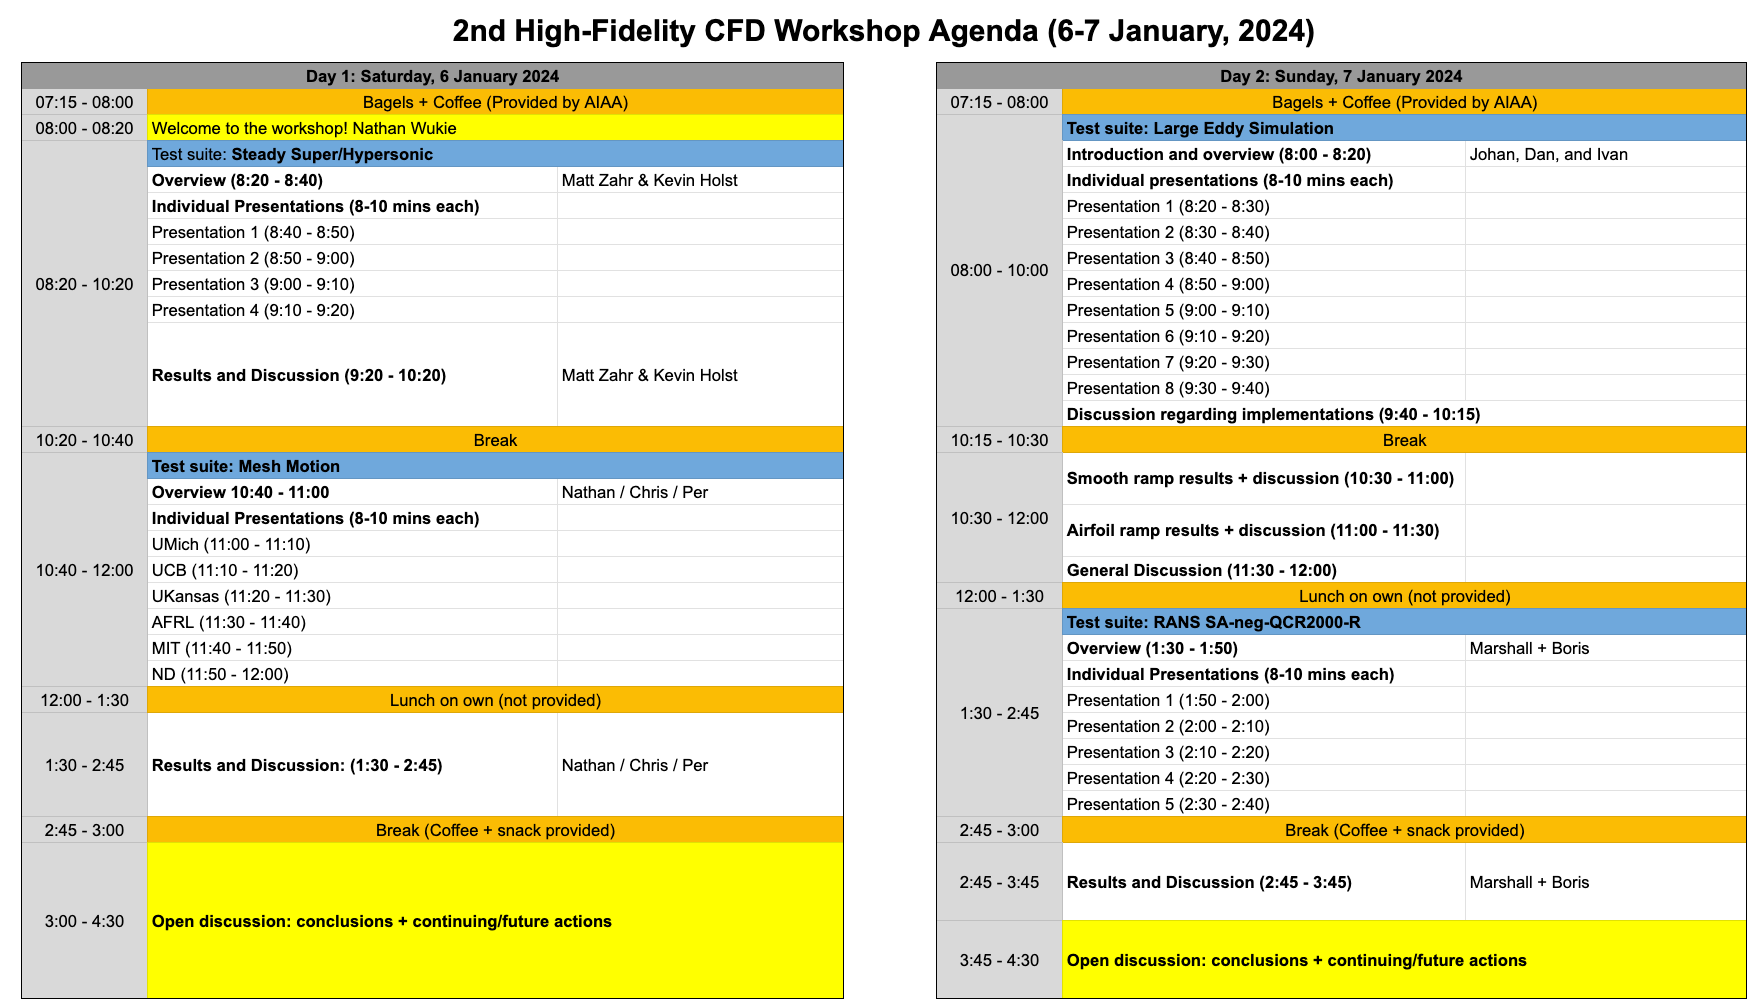
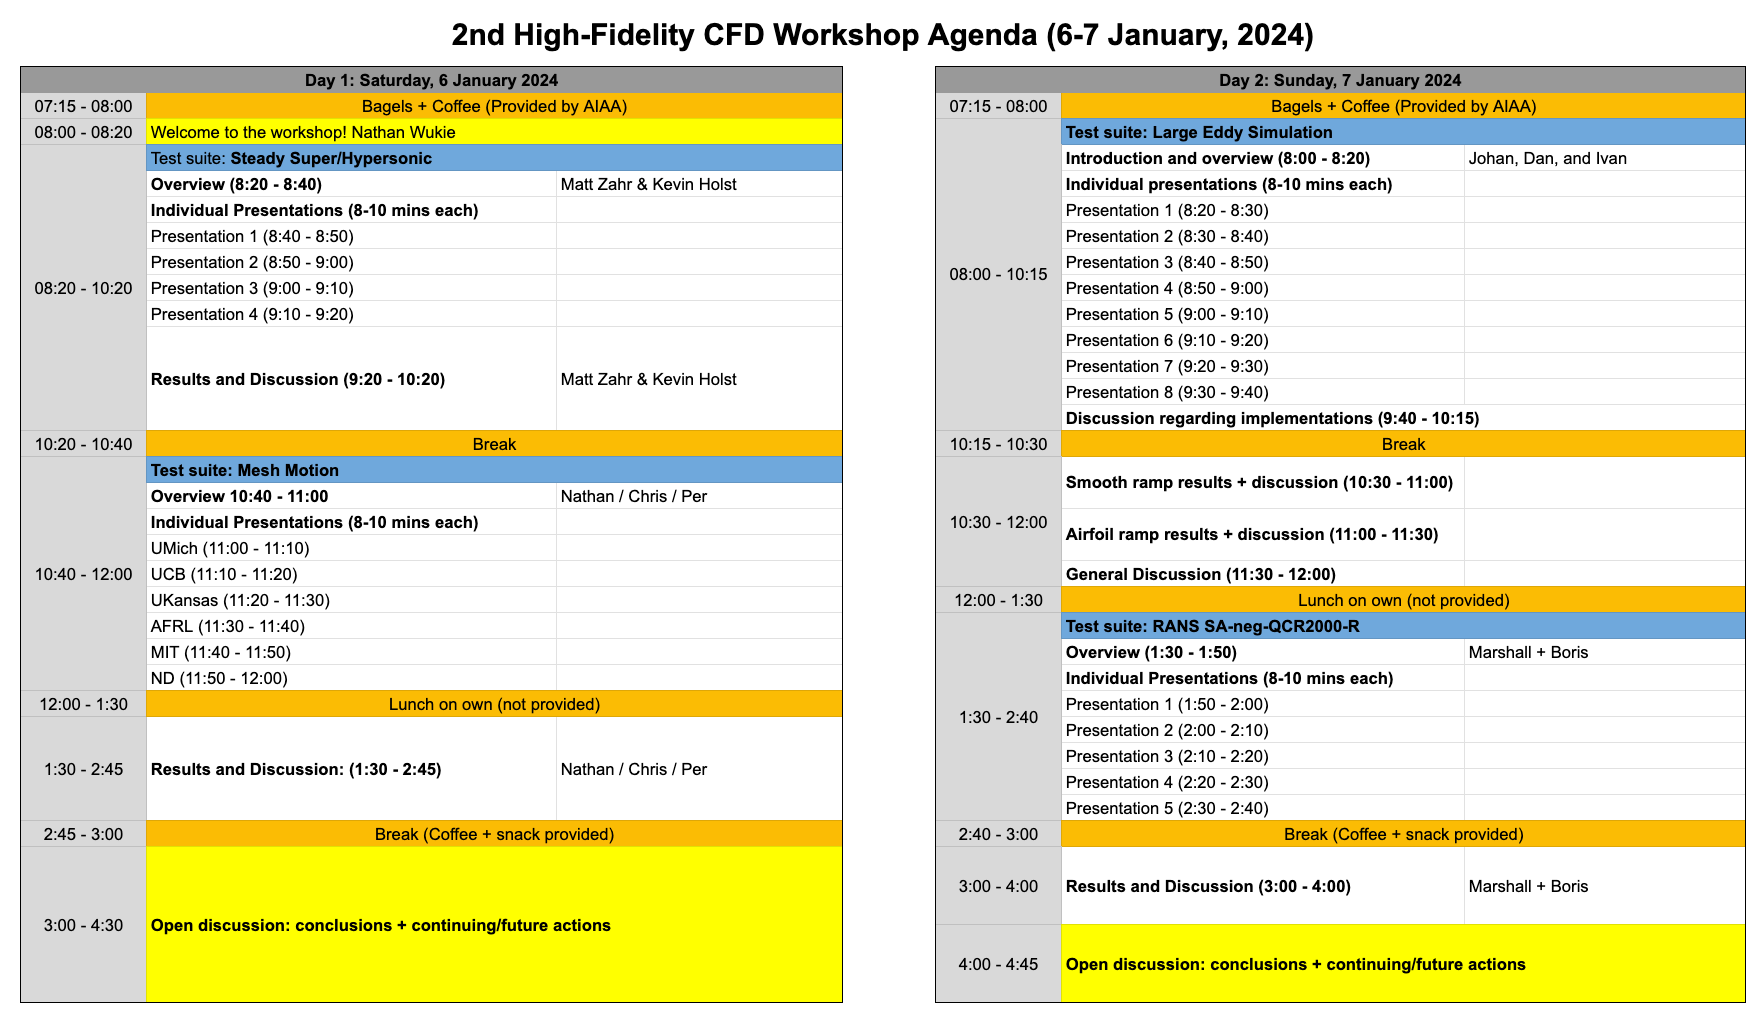
Update agenda.

diff --git a/agenda.md b/agenda.md
@@ -64,9 +64,9 @@ title: Agenda
 |                   |                                                           |
 | **10:15 - 10:30** | **Break**                                                 |
 |                   |                                                           |
-| **10:30 - 11:00** | **LES smooth ramp results + discussion**                  |
-| **11:00 - 11:30** | **LES airfoil ramp results + discussion**                 |
-| **11:30 - 12:00** | **LES general discussion**                                |
+| 10:30 - 11:00     | LES smooth ramp results + discussion                      |
+| 11:00 - 11:30     | LES airfoil ramp results + discussion                     |
+| 11:30 - 12:00     | LES general discussion                                    |
 |                   |                                                           |
 | **12:00 - 1:30**  | **Lunch on own (not provided)**                           |
 |                   |                                                           |
@@ -80,7 +80,7 @@ title: Agenda
 |                   |                                                           |
 | **2:40 - 3:00**   | **Break (Coffee + snack provided)**                       |
 |                   |                                                           |
-| 3:00 - 4:00       | **RANS results and discussion**                           |
+| 3:00 - 4:00       | RANS results and discussion                               |
 |                   |                                                           |
 | **4:00 - 4:45**   | **Open discussion**                                       |
 
